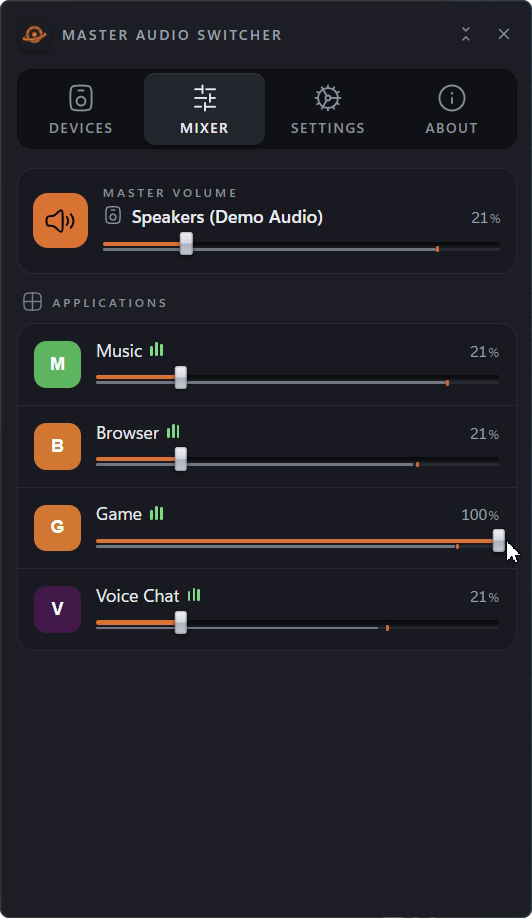
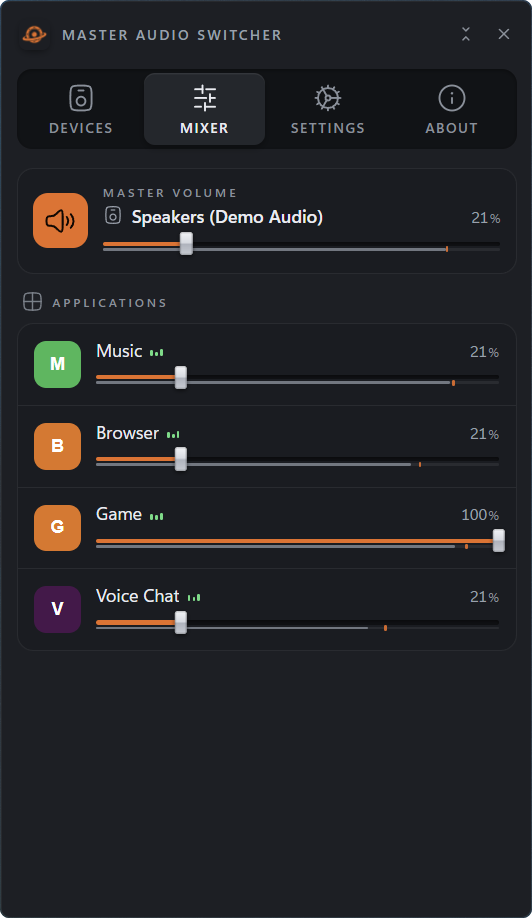
README screenshots retaken without the cursor
tools/demo/mas.py shots takes the stills straight from the screen with the
cursor hidden and parked on the title, and cuts the window's rounded
corners out of the desktop behind it.

diff --git a/tools/demo/mas.py b/tools/demo/mas.py
@@ -2,6 +2,7 @@
 
     python tools/demo/mas.py hero            one clip, into tools/demo/out/hero.mp4
     python tools/demo/mas.py all             hero, tour and compact
+    python tools/demo/mas.py shots           stills without the cursor, into tools/demo/out/shots/mas
     python tools/demo/mas.py pose [seconds]  stage and program only, for measuring
 
 MAS_DEMO=1 gives the program made-up devices, applications and player, every
@@ -108,7 +109,7 @@ def angle_point(c: Clip, centre: tuple[int, int], degrees: float, radius: float 
     return int(centre[0] + radius * math.sin(a)), int(centre[1] - radius * math.cos(a))
 
 
-def turn(c: Clip, centre: tuple[int, int], seconds: float = 1.3) -> None:
+def turn(c: Clip, centre: tuple[int, int], seconds: float = 1.3, back: bool = True) -> None:
     """The knob from 21 to 100 and back, by its rim.
 
     It follows the angle of the hand from where it was taken: 0 at -135
@@ -119,7 +120,7 @@ def turn(c: Clip, centre: tuple[int, int], seconds: float = 1.3) -> None:
     start, end = -135 + 2.7 * 21, 135 + 6     # a little past the stop, within its slack
     c.move(*angle_point(c, centre, start), 0.5)
     c.down()
-    for a0, a1 in ((start, end), (end, start)):
+    for a0, a1 in ((start, end), (end, start))[:2 if back else 1]:
         steps = int(seconds * 120)
         for i in range(1, steps + 1):
             t = i / steps
@@ -201,6 +202,80 @@ def compact(c: Clip, data: Path) -> None:
 CLIPS = {"hero": hero, "tour": tour, "compact": compact}
 
 
+def rounded(png: Path) -> None:
+    """The corners outside the window are the desktop behind it: made transparent.
+    Windows 11 rounds a window by 8 px at 100 %, 9 here at 125 %; drawn at 4x for a smooth edge."""
+    from PIL import Image, ImageDraw
+    im = Image.open(png).convert("RGBA")
+    mask = Image.new("L", (im.width * 4, im.height * 4), 0)
+    ImageDraw.Draw(mask).rounded_rectangle((0, 0, mask.width - 1, mask.height - 1), 36, fill=255)
+    im.putalpha(mask.resize(im.size, Image.LANCZOS))
+    im.save(png, optimize=True)
+
+
+def shots() -> None:
+    """Stills for the READMEs and the site, into tools/demo/out/shots/mas: the
+    same scenes as the clips, taken from the screen itself without the cursor,
+    which rests on the title before each one so nothing wears a hover."""
+    to = OUT / "shots/mas"
+    data = start_demo()
+    try:
+        hwnd = open_window(data)
+        c = Clip(0, 0, 0, 0, to / "unused.mp4")
+        c.x, c.y, c.w, c.h = bounds(hwnd)
+
+        def snap(name: str, settle: float = 0.8) -> None:
+            c.place(*PARK)
+            c.wait(settle)
+            c.snap(to / f"{name}.png")
+            rounded(to / f"{name}.png")
+
+        c.place(*PARK)
+        c.click()                         # the first press after the window came forward was lost
+        c.wait(0.8)
+        c.move(*MIXER, 0.4)
+        c.click()
+        c.wait(1.0)
+        c.move(*GAME, 0.3)
+        c.down()
+        c.move(SLIDER_END, GAME[1], 0.6)
+        c.up()
+        snap("mixer")                     # one program at 100, the rest at 21
+        c.place(*DEVICES)
+        c.click()
+        c.wait(1.0)
+        c.place(*HEADPHONES_ROW)
+        c.click()
+        snap("switch", 1.2)               # the card saying where the sound went
+        c.wait(6.0)                       # until the card has gone
+        turn(c, KNOB, 1.0, back=False)
+        snap("devices")                   # the headphones at 100
+        headset(data, True)
+        c.wait(7.0)                       # the sound and the microphone move; the card comes and goes
+        snap("headset")
+        headset(data, False)
+        c.wait(3.0)
+        c.place(*SETTINGS)
+        c.click()
+        c.wait(1.0)
+        c.place(*LIST)
+        c.wheel(-20, 1.0)
+        c.wait(0.5)
+        c.place(*LIGHT)
+        c.click()
+        snap("light", 1.5)
+        c.place(*MATCH)
+        c.click()
+        c.wait(1.0)
+        c.place(*COMPACT)
+        c.click()
+        c.wait(1.5)
+        c.x, c.y, c.w, c.h = bounds(hwnd)
+        snap("compact")                   # the headphones still at 100
+    finally:
+        stop_demo(data)
+
+
 def record(name: str) -> None:
     data = start_demo()
     try:
@@ -241,6 +316,10 @@ def main() -> int:
                 time.sleep(float(sys.argv[2]) if len(sys.argv) > 2 else 120)
             finally:
                 stop_demo(data)
+            return 0
+        if what == "shots":
+            shots()
+            print("stills in", OUT / "shots/mas", flush=True)
             return 0
         for name in (CLIPS if what == "all" else [what]):
             record(name)

diff --git a/tools/demo/democap.py b/tools/demo/democap.py
@@ -93,6 +93,18 @@ class Clip:
             self.stage.terminate()
             self.stage = None
 
+    def snap(self, out: Path) -> None:
+        """One frame of the stage as it is now, lossless and without the cursor:
+        a still for a README or the site, not a frame cut from a recording."""
+        out.parent.mkdir(parents=True, exist_ok=True)
+        subprocess.run(
+            [ffmpeg(), "-hide_banner", "-loglevel", "error", "-y",
+             "-f", "gdigrab", "-draw_mouse", "0",
+             "-offset_x", str(self.x), "-offset_y", str(self.y),
+             "-video_size", f"{self.w}x{self.h}", "-i", "desktop",
+             "-frames:v", "1", "-pix_fmt", "rgb24", str(out)],
+            check=True)
+
     # --- the hand -------------------------------------------------------------
     def at(self, sx: int, sy: int) -> tuple[int, int]:
         """A point on the stage, in screen pixels."""
